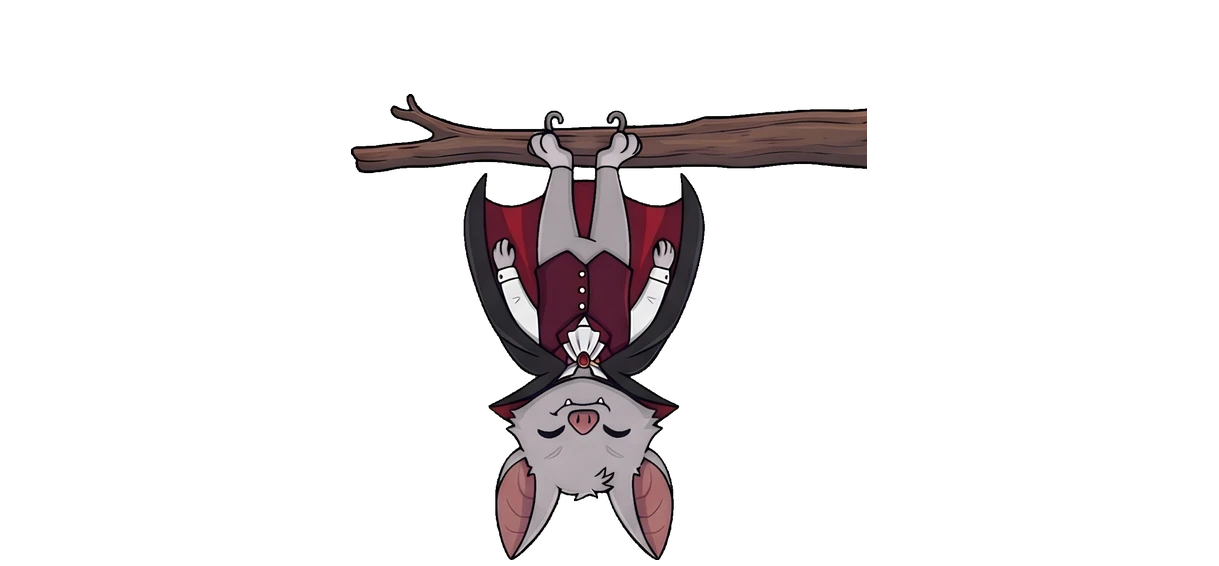
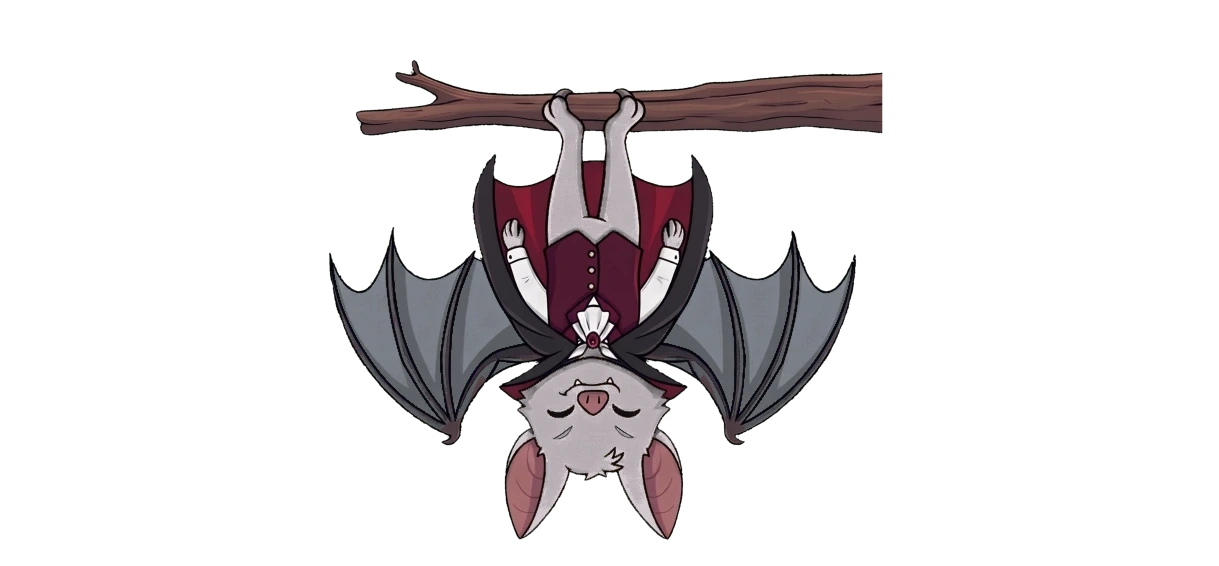
feat(jogo): morcego adulto com truques (Entregar a flor, Soneca, Banho, Festa, Pose, Vitória de campeão), fazendo flor/entregar_flor/banho/descansar/festa/pose/vitoria sozinho, soneca nova que volta ao enrolado antes de acordar e comendo só de frente (sem comer_lado); dormindo novo nas 8 cores com 3

Changed region(s): [[0.2494, 0.1201, 0.7482, 0.9912]]

diff --git a/js/jogo-revisao/pets.js b/js/jogo-revisao/pets.js
@@ -15,8 +15,8 @@ let SPR = null;
 export async function carregarSprites() {
   if (!SPR) {
     const [j, cores] = await Promise.all([
-      fetch(BASE + 'pets/sprites.json?v=279').then(r => { if (!r.ok) throw new Error('sprites.json'); return r.json(); }),   // ?v=: trocar ao mudar os quadros (PROMPT-227, 228, 232, 233, 277, 279)
-      fetch(BASE + 'pets/sprites-pets-cores.json?v=279').then(r => (r.ok ? r.json() : null)).catch(() => null),   // 🎨 sem ele: os pets sem cores
+      fetch(BASE + 'pets/sprites.json?v=284').then(r => { if (!r.ok) throw new Error('sprites.json'); return r.json(); }),   // ?v=: trocar ao mudar os quadros (PROMPT-227, 228, 232, 233, 277, 279, 284)
+      fetch(BASE + 'pets/sprites-pets-cores.json?v=284').then(r => (r.ok ? r.json() : null)).catch(() => null),   // 🎨 sem ele: os pets sem cores
     ]);
     for (const [f, a] of Object.entries(cores?.pets || {})) if ((petDaCor(f) || adultoDaCor(f)) && !j.pets[f]) j.pets[f] = a;
     await conferirFormasNovas(j);   // 🦇 PROMPT-277: o morcego rosa e o adulto só valem quando as imagens chegarem
